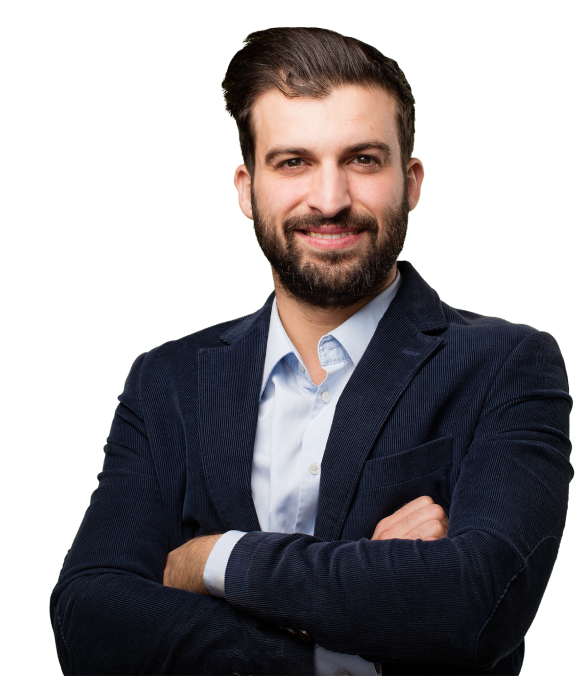
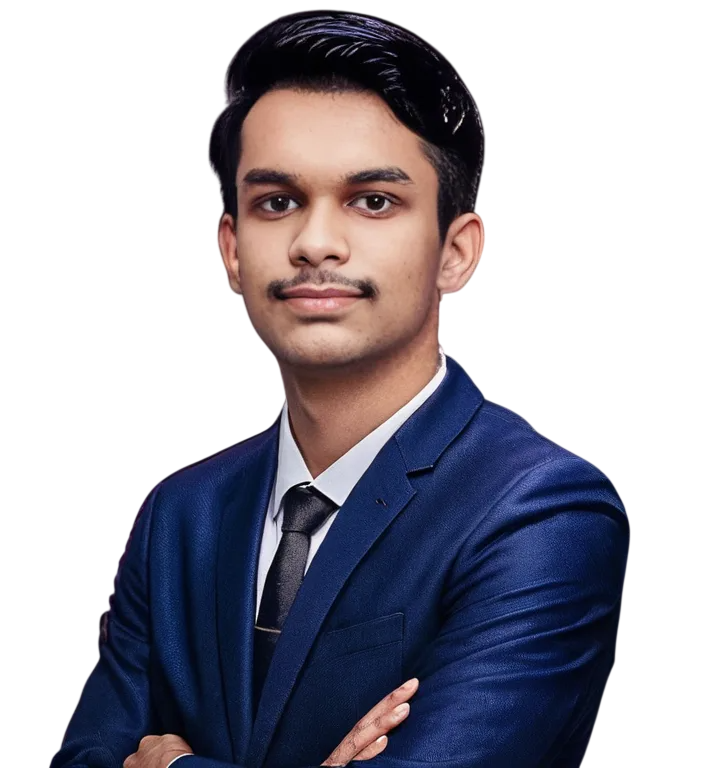
v2 changes - Changed Copywrite

diff --git a/index.html b/index.html
@@ -60,7 +60,7 @@
 
                 <div class="hero-text">
                     <h2>Hi, I am</h2>
-                    <h1>Mary Hardy</h1>
+                    <h1>Jubair Alam</h1>
                     <p class="para">Shot what able cold new see hold.Friendly as an betrayed formerly he. Morning
                         because as to society behaved moments.</p>
                     <div class="hero-btns">
@@ -108,7 +108,7 @@
                 <div class="about-me-row-2">
                     <div class="info-box">
                         <span>Name:</span>
-                        <h3>Mary Hardy</h3>
+                        <h3>Jubair Alam</h3>
                     </div>
                     <div class="info-box">
                         <span>Email:</span>

diff --git a/styles/hero.css b/styles/hero.css
@@ -8,7 +8,7 @@
 }
 
 .hero-wrapper {
-    width: 1600px;
+    width: 1500px;
     height: 837px;
     padding: 110px 0 0 0;
     margin: 0 auto;
@@ -61,7 +61,7 @@
 .dev-image {
     z-index: 5;
     height: 95%;
-
+    margin-right: -100px;
 }
 
 .floating-hero-bg {

diff --git a/styles/header.css b/styles/header.css
@@ -22,8 +22,8 @@
     justify-content: space-between;
 }
 
-.header-wrapper .header-navbar .logo-wrapper img {
-    width: 128px;
+.header-wrapper .header-navbar .logo-wrapper .main-logo {
+    width: 228px;
 }
 
 .header-wrapper .header-navbar .navbar-links {
